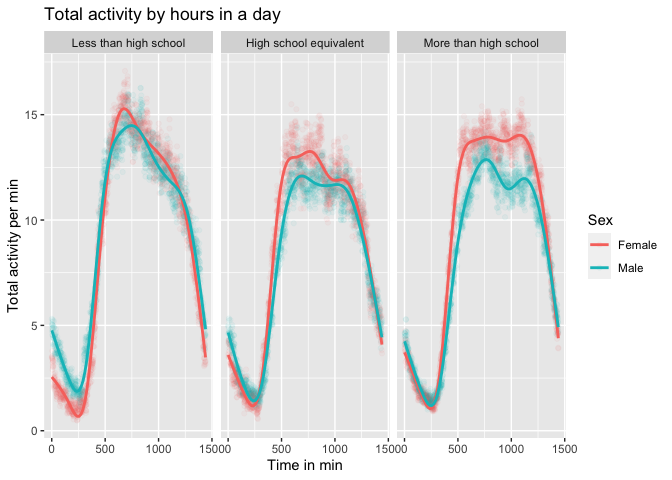
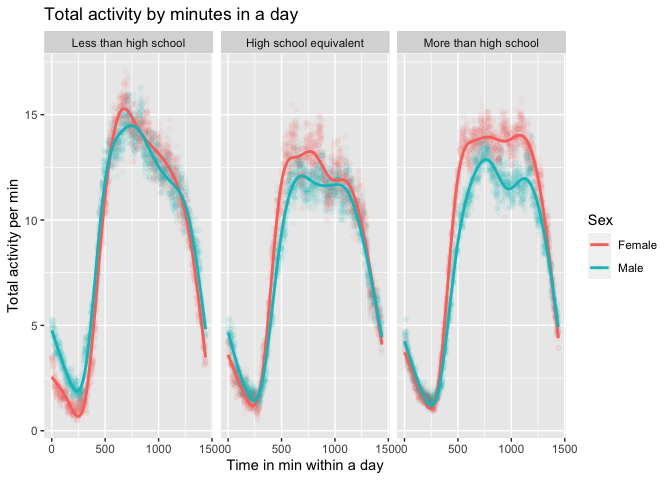
added comments

Changed region(s): [[0.3438, 0.9375, 0.5625, 1.0], [0.25, 0.0, 0.4375, 0.0625]]

diff --git a/p8105_hw3_sw3879.md b/p8105_hw3_sw3879.md
@@ -198,11 +198,16 @@ brfss_excellent |>
 ![](p8105_hw3_sw3879_files/figure-gfm/unnamed-chunk-11-1.png)<!-- -->
 
 This plot shows BRFSS data for all states from 2002 to 2010. The mean
-BRFSS in 2002 is NA, and in 2010 is NA.
+BRFSS in 2002 is 23.34, and in 2010 is 21.3. The state with the lowest
+average BRFSS data between 2002 and 2010 is 15.99 from the state WV. The
+state with the highest average BRFSS data between 2002 and 2010 is 27.43
+from the state DC.
 
 Make a two-panel plot showing, for the years 2006, and 2010,
 distribution of data_value for responses (“Poor” to “Excellent”) among
-locations in NY State.
+locations in NY State. This is done by filtering out rows for 2006 and
+2000 and the NY states, then visualize data value by county and
+response.
 
 ``` r
 brfss_ny = brfss_clean |> 
@@ -222,11 +227,16 @@ brfss_ny |> ggplot(aes(x = location_desc, y = data_value, fill = response)) +
 
 ![](p8105_hw3_sw3879_files/figure-gfm/unnamed-chunk-13-1.png)<!-- -->
 
-TO DO: describe data
+From the clustered bar plot, we can see that there are missing data in
+2006 for a few counties but data is complete for 2010. In most states,
+the majority of the response is “very good”, with Bronx, Kings, and
+Queens county as exceptions. Comparing between 2006 and 2010, there is
+generally an increase in data value in the “very good” response.
 
 ## Problem 3
 
-Load the demographics dataset, recode variable and remove \<21 years old
+Load the demographics dataset, recode variable according to csv, remove
+\<21 years old, and remove records with any missing data
 
 ``` r
 demo = read_csv("data/nhanes_covar.csv", skip = 4) |> 
@@ -256,6 +266,10 @@ demo = read_csv("data/nhanes_covar.csv", skip = 4) |>
     ## ℹ Use `spec()` to retrieve the full column specification for this data.
     ## ℹ Specify the column types or set `show_col_types = FALSE` to quiet this message.
 
+The demographics dataset has 228 observations after clearning, and 5
+variables. 22 observations were removed. Variables in this dataset
+includes .
+
 Load the accelerometer dataset, pivot to long format
 
 ``` r
@@ -283,6 +297,11 @@ Merge demo and accel data
 merged_df = left_join(demo, accel, by = "seqn") |> 
   mutate(time_min = as.numeric(time_min))
 ```
+
+The merged data set has 328320 rows and 5 variables. There are a total
+of 228 participants in the dataframe. This dataframe records the MIMS
+data for every minute in a day for these participants, along with their
+demographic information.
 
 Produce a reader-friendly table for the number of men and women in each
 education category, and create a visualization of the age distributions
@@ -315,7 +334,13 @@ demo |> group_by(education, sex, age) |>
 
 ![](p8105_hw3_sw3879_files/figure-gfm/unnamed-chunk-18-1.png)<!-- -->
 
-TO DO: comment on the table
+From the table, we can see that the number of female and male with
+education “less than high school” and with “more than high school” are
+relatively similar, but more male with “high school equivalent” is
+included than female. From the box plot, we can see that the population
+with education more than high school is generally younger. The
+difference in age between female and male is the most significant in the
+high school equivalent education group.
 
 Using your tidied dataset, aggregate across minutes to create a total
 activity variable for each participant. Plot these total activities
@@ -341,7 +366,14 @@ merged_df |> group_by(seqn) |>
 
 ![](p8105_hw3_sw3879_files/figure-gfm/unnamed-chunk-19-1.png)<!-- -->
 
-TO DO: add comment
+We can see that there is a general downward trend in total activity as
+age increases. This is best evidenced in the less than high school
+education group, whereas decrease is slower in the more than high school
+group. In the high school equivalent education group, theere is a peak
+in activity at ~age = 40. In high school equivalent and more than high
+school education group, female generally has higher activity level,
+whereas in the less than high school education group there is no such
+difference.
 
 Make a three-panel plot that shows the 24-hour activity time courses for
 each education level and use color to indicate sex.
@@ -352,8 +384,8 @@ merged_df |>
   summarize(data_per_min = mean(as.numeric(accel_data))) |> 
   ggplot(aes(x = time_min, y = data_per_min, color = sex)) +
   geom_point(alpha = 0.05) + geom_smooth(se = FALSE) +
-  labs(title = "Total activity by hours in a day",
-       x = "Time in min",
+  labs(title = "Total activity by minutes in a day",
+       x = "Time in min within a day",
        y = "Total activity per min",
        color = "Sex") +
   facet_wrap(. ~ education)
@@ -364,3 +396,10 @@ merged_df |>
     ## `geom_smooth()` using method = 'gam' and formula = 'y ~ s(x, bs = "cs")'
 
 ![](p8105_hw3_sw3879_files/figure-gfm/unnamed-chunk-20-1.png)<!-- -->
+
+Looking at the three panes, we observe similar trends of activity at
+different time points within a day, with lowest activity in midnight,
+and highest during middle of the day. The lowest point is at around 0-3,
+and the highest point is at around 12-15, Similarly, in high school
+equivalent and more than high school education group, female generally
+has higher activity level than men, especially at the peak level.
